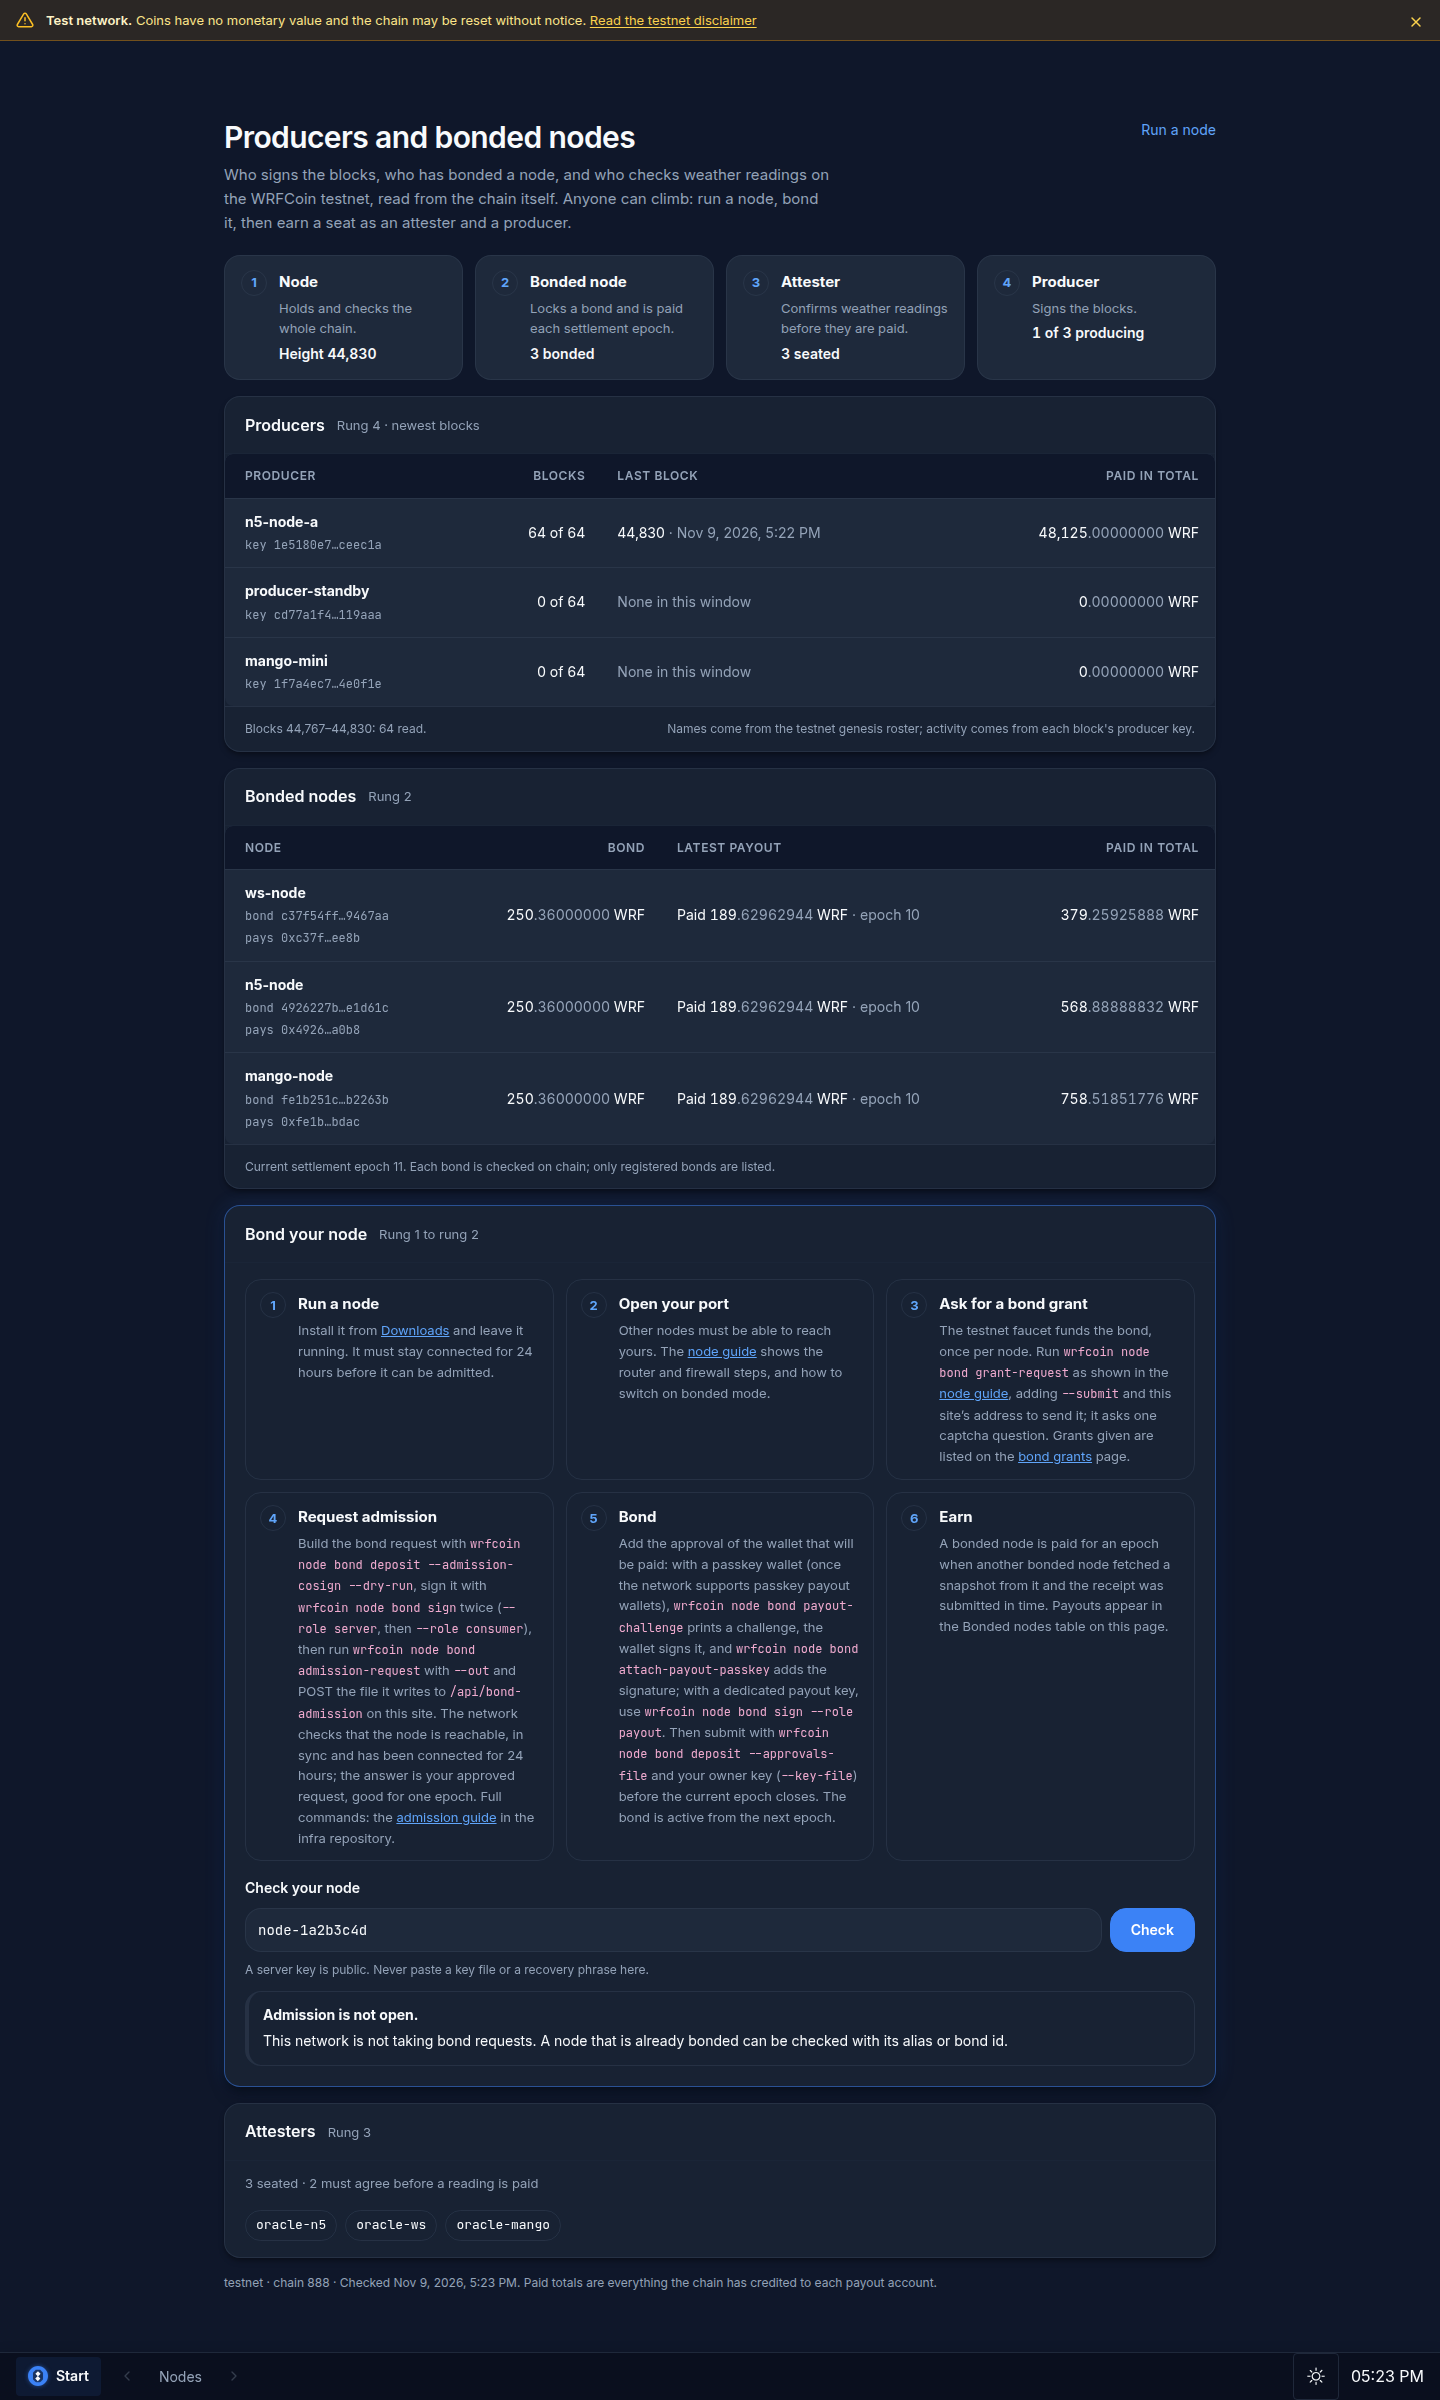
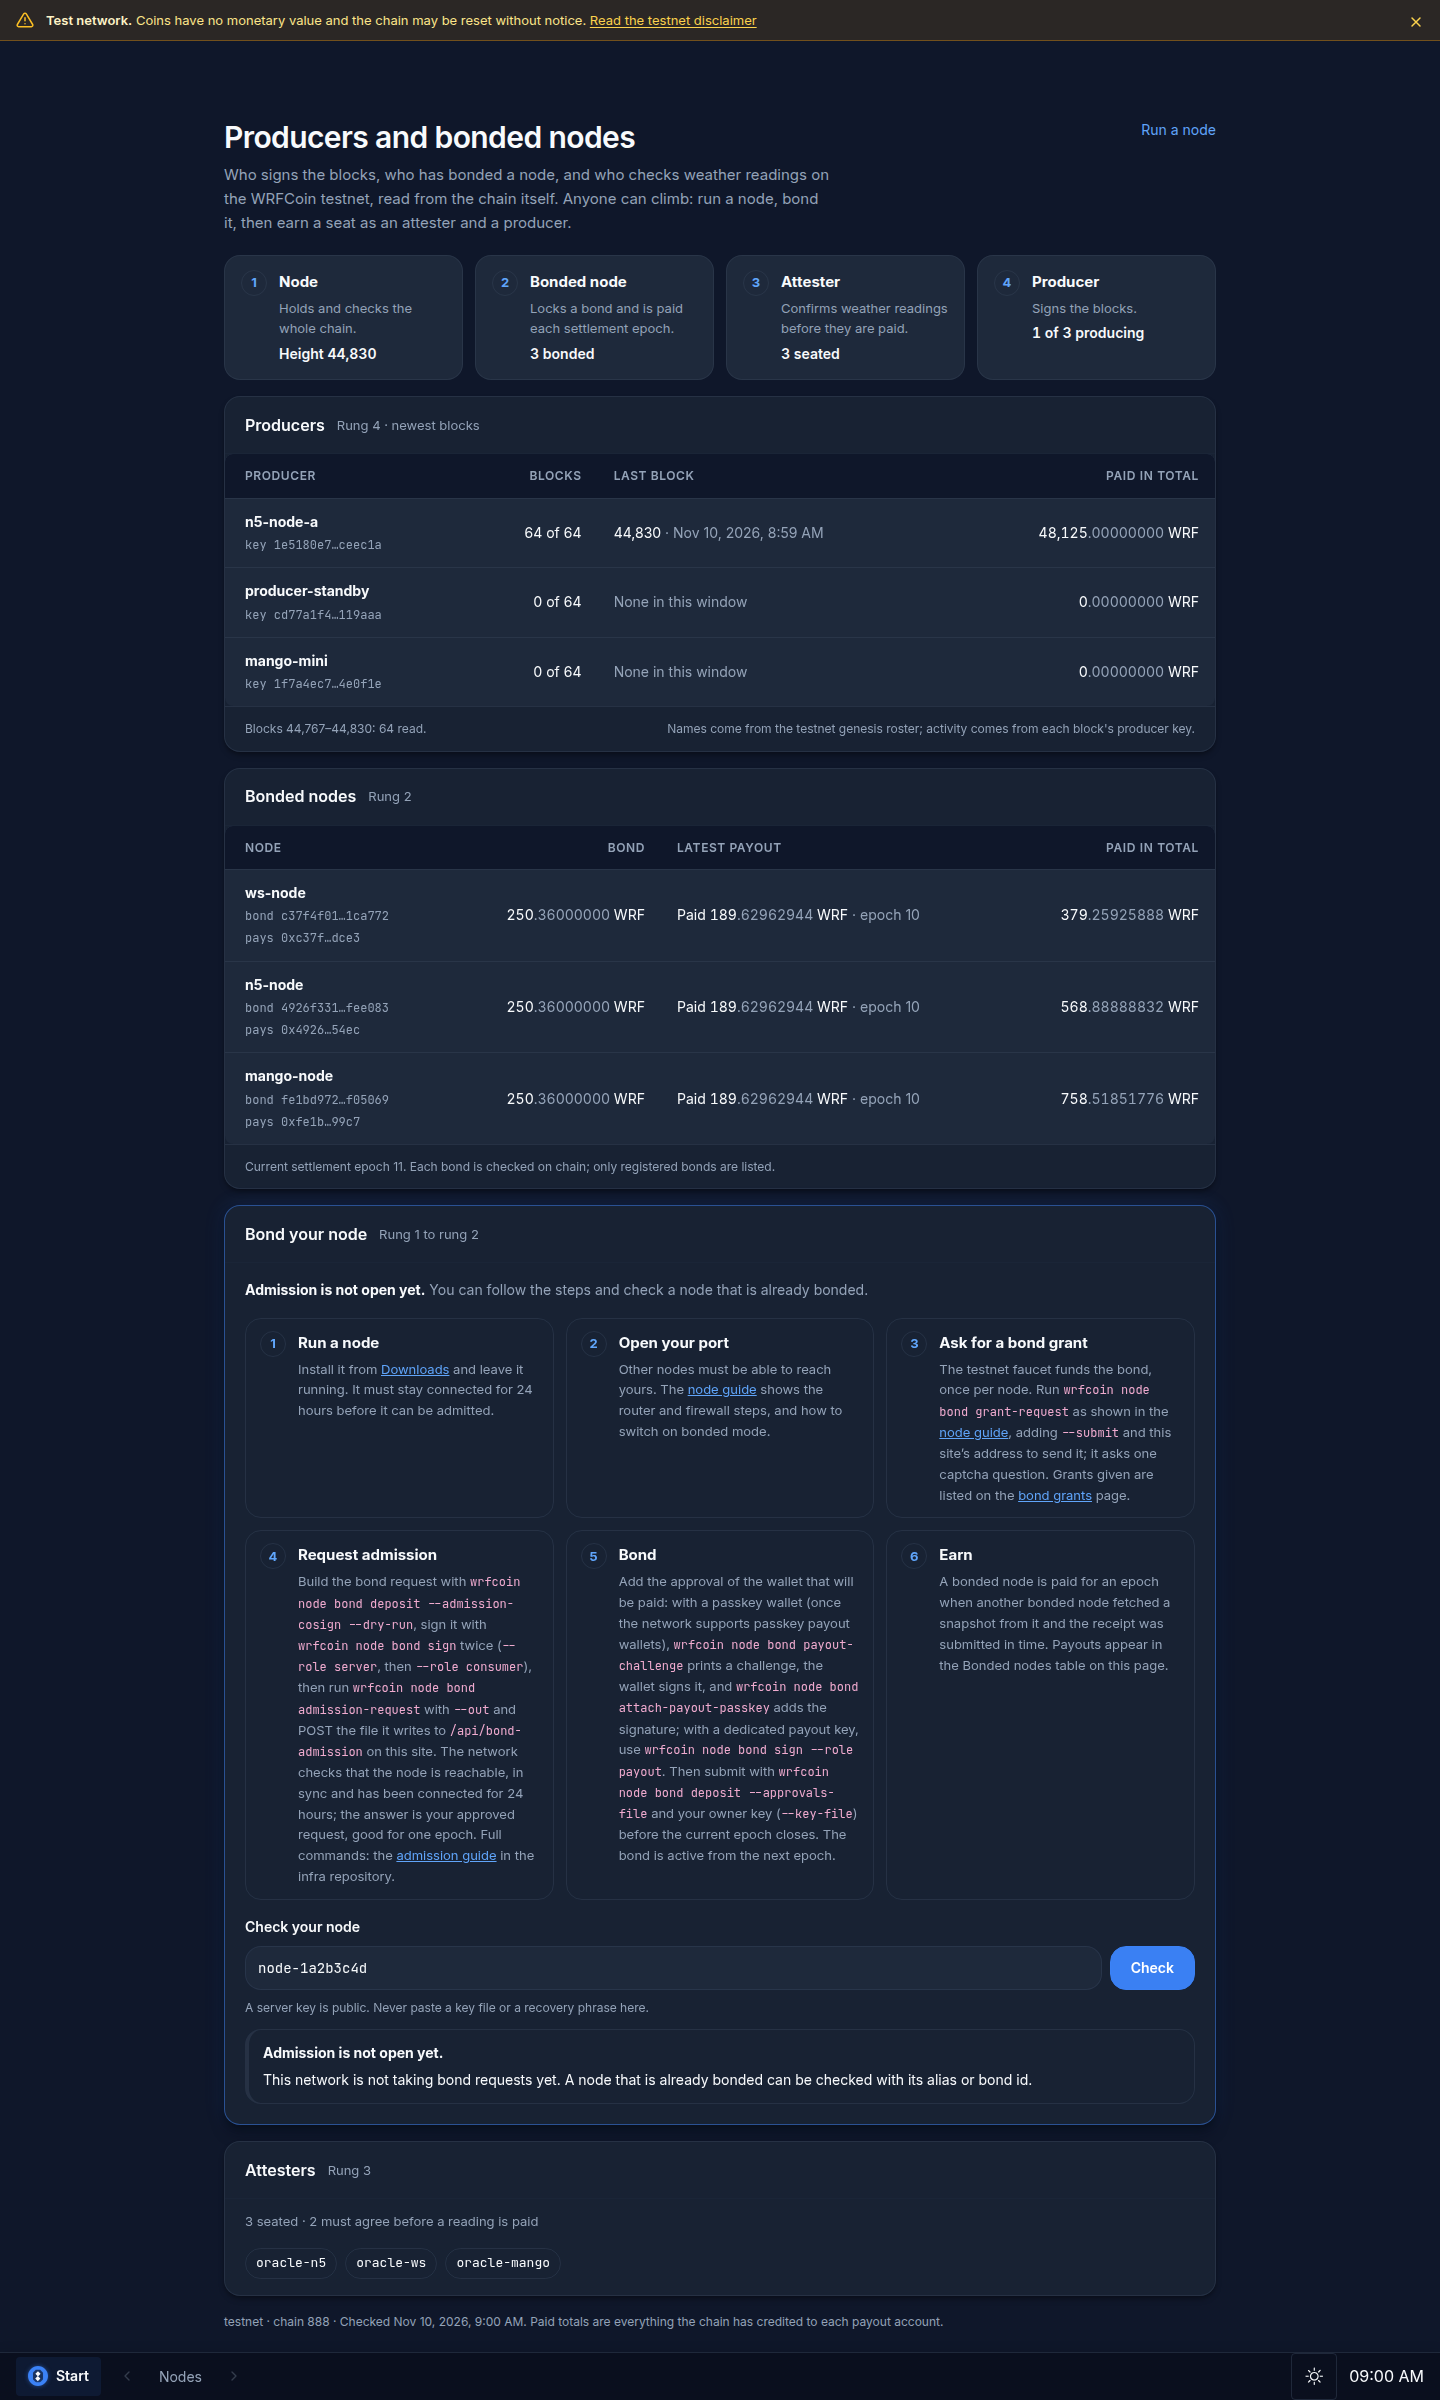
feat(nodes): the bond card says admission is not open yet (#93)
* feat(nodes): the bond card says admission is not open yet

Owner decision 2026-11-10: the "Bond your node" card is ON in the next web round with the text
'Admission is not open yet'. While the admission service is off (GET /api/bond-admission/recent
answers 404), a check now says "Admission is not open yet." and "This network is not taking bond
requests yet." instead of "Admission is not open." The card is still behind VITE_ENABLE_BOND_GUIDE
(default off; the build switch is infra's) and still reads nothing until Check is pressed.

Screenshots of the closed state (phone 390, desktop 1440) replaced in docs/screenshots/network-nodes.

Claude-Session: https://claude.ai/code/session_01HDDj5vsdhJyrEBpS3SsVdZ

* feat(nodes): static "Admission is not open yet." line at the top of the bond card

Lead call 2026-11-10: show the owner's wording up front as static copy, with no request. The
frontend has no admission switch, so the card's own build flag (VITE_ENABLE_BOND_GUIDE) is the only
gate; while admission is off the line is true. Remove it in the release that opens admission (a
comment in the card says so). The card still reads nothing until Check is pressed (test added).

Screenshots: closed state (tall) and the card top, phone 390 and desktop 1440.

Claude-Session: https://claude.ai/code/session_01HDDj5vsdhJyrEBpS3SsVdZ

---------

diff --git a/src/pages/BondYourNode.jsx b/src/pages/BondYourNode.jsx
@@ -81,7 +81,7 @@ function describe(progress, admissionsState) {
   case BOND_STAGE.none:
     return { tone: 'wait', title: 'Not in the recent admissions', body: 'No admission for this key or alias is among the last 100, and no registered bond has this id or alias. If the node was admitted earlier, check with its alias or bond id.' };
   default:
-    if (admissionsState === 'closed') return { tone: 'wait', title: 'Admission is not open.', body: 'This network is not taking bond requests. A node that is already bonded can be checked with its alias or bond id.' };
+    if (admissionsState === 'closed') return { tone: 'wait', title: 'Admission is not open yet.', body: 'This network is not taking bond requests yet. A node that is already bonded can be checked with its alias or bond id.' };
     if (admissionsState === 'busy') return { tone: 'warn', title: 'Too many requests', body: 'Please wait a moment and check again.' };
     return { tone: 'warn', title: 'Unavailable', body: 'The admission or bonded list could not be read right now, so this page cannot say where the node stands.' };
   }
@@ -124,6 +124,9 @@ export default function BondYourNode({ bonded }) {
       header={<div className="fc-section-head"><h2>Bond your node</h2><span className="fc-count">Rung 1 to rung 2</span></div>}
       noPadding
     >
+      {/* Static copy, no read (owner 2026-11-10): the frontend has no admission switch, and while the card's
+          build flag is the only gate this line is true. Remove it in the release that opens admission. */}
+      <p className="nn-bond-notice" data-testid="bond-not-open"><strong>Admission is not open yet.</strong> You can follow the steps and check a node that is already bonded.</p>
       <ol className="nn-bond-steps">
         {STEPS.map((step, i) => (
           <li key={step.key} className={`nn-bond-step${verdict?.step === step.key ? ' nn-bond-step--here' : ''}`} aria-current={verdict?.step === step.key ? 'step' : undefined}>

diff --git a/src/pages/PublicNetworkNodesPage.css b/src/pages/PublicNetworkNodesPage.css
@@ -33,6 +33,8 @@
 .nn-bond-input:focus-visible, .nn-bond-button:focus-visible { outline: 2px solid var(--fc-primary-light); outline-offset: 2px; }
 .nn-bond-button { flex: none; min-height: 44px; padding: 8px 20px; font-size: 0.875rem; font-weight: 600; color: var(--fc-text); background: transparent; border: 1px solid var(--fc-primary-light); border-radius: var(--fc-r-lg); cursor: pointer; }
 .nn-bond-button:disabled { opacity: 0.6; cursor: default; }
+.nn-bond-notice { margin: 0; padding: 16px 20px 0; font-size: 0.875rem; color: var(--fc-text-muted); }
+.nn-bond-notice strong { color: var(--fc-text); }
 .nn-bond-hint { margin: 0; font-size: 0.75rem; color: var(--fc-text-muted); }
 .nn-bond-verdict { margin: 4px 0 0; padding: 12px 14px; display: flex; flex-direction: column; gap: 4px; font-size: 0.875rem; border: 1px solid var(--fc-border); border-left-width: 4px; border-radius: var(--fc-r-lg); overflow-wrap: anywhere; }
 .nn-bond-verdict--ok { border-left-color: var(--fc-primary-light); }
@@ -46,5 +48,6 @@
   .nn-ladder { grid-template-columns: 1fr; gap: 8px; }
   .nn-bond-steps { grid-template-columns: 1fr; gap: 8px; padding: 12px 16px 4px; }
   .nn-bond-check { padding: 12px 16px 16px; }
+  .nn-bond-notice { padding: 12px 16px 0; }
   .nn-attesters { padding: 12px 16px 16px; }
 }

diff --git a/src/pages/__tests__/BondYourNode.test.jsx b/src/pages/__tests__/BondYourNode.test.jsx
@@ -39,6 +39,13 @@ test('lists the six steps and reads nothing until asked', () => {
   expect(globalThis.fetch).not.toHaveBeenCalled();
 });
 
+test('says up front, with no request, that admission is not open yet', () => {
+  mockFetch(200, { admissions: [] });
+  renderCard(bonded());
+  expect(screen.getByTestId('bond-not-open')).toHaveTextContent('Admission is not open yet.');
+  expect(globalThis.fetch).not.toHaveBeenCalled();
+});
+
 test('a value that is not a key or alias is refused without a request', async () => {
   mockFetch(200, { admissions });
   renderCard(bonded());
@@ -133,8 +140,8 @@ test('the 404 while admission is off says it is not open; a bonded node is still
   mockFetch(404, { error: { code: 'ADMISSION_DISABLED' } });
   renderCard(bonded([{ deploymentId: BOND, alias: 'node-1a2b3c4d', earnedTotal: '0', lastPayout: null }]));
   const closed = await check('f'.repeat(64));
-  expect(closed).toHaveTextContent('Admission is not open.');
-  expect(closed).not.toHaveTextContent('yet');
+  expect(closed).toHaveTextContent('Admission is not open yet.');
+  expect(closed).toHaveTextContent('not taking bond requests yet');
   expect(await check('node-1a2b3c4d')).toHaveTextContent('Bonded');
 });
 
